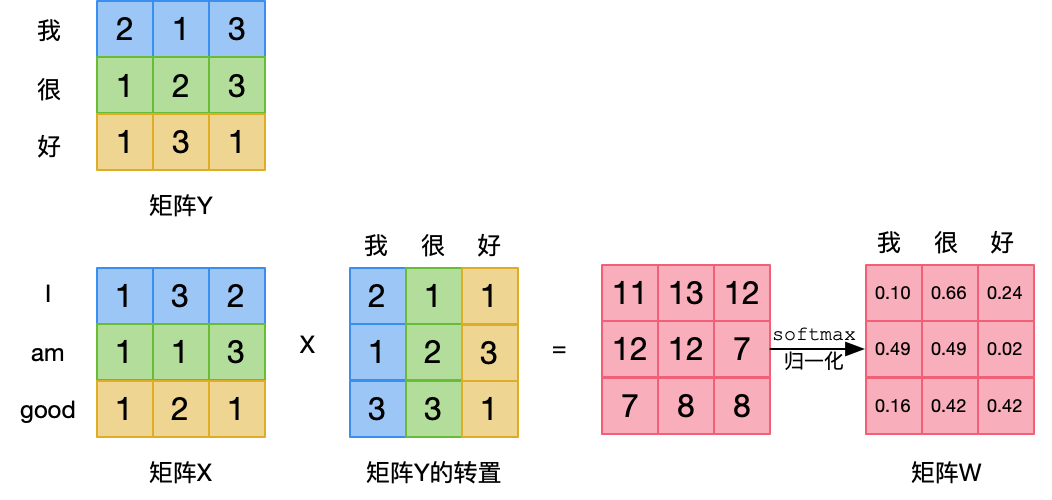
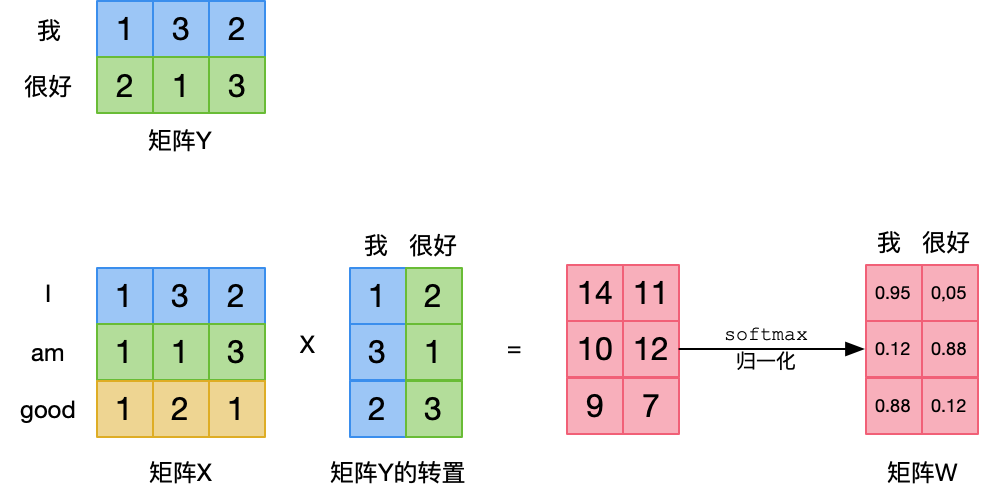
Update Post

diff --git a/source/_posts/What-exactly-is-attention.md b/source/_posts/What-exactly-is-attention.md
@@ -177,13 +177,13 @@ $$
 
 $$
 \begin{aligned}
-\mathbf{z_{I}}    &= 0.10 \cdot \mathbf{y_{\text{我}}} + 0.66 \cdot \mathbf{y_{\text{很}}} + 0.24 \cdot \mathbf{y_{\text{好}}} \\
-\mathbf{z_{am}}   &= 0.49 \cdot \mathbf{y_{\text{我}}} + 0.49 \cdot \mathbf{y_{\text{很}}} + 0.02 \cdot \mathbf{y_{\text{好}}} \\
-\mathbf{z_{good}} &= 0.16 \cdot \mathbf{y_{\text{我}}} + 0.42 \cdot \mathbf{y_{\text{很}}} + 0.42 \cdot \mathbf{y_{\text{好}}}
+\mathbf{z_{I}}    &= 0.95 \cdot \mathbf{y_{\text{我}}} + 0.05 \cdot \mathbf{y_{\text{很好}}} \\
+\mathbf{z_{am}}   &= 0.12 \cdot \mathbf{y_{\text{我}}} + 0.88 \cdot \mathbf{y_{\text{很好}}} \\
+\mathbf{z_{good}} &= 0.88 \cdot \mathbf{y_{\text{我}}} + 0.12 \cdot \mathbf{y_{\text{很好}}} 
 \end{aligned}
 $$
 
-如上的计算和权重只是为了说明原理而随机选择的数据，并不代表真实的相关性。因此，我们会看到 `I` 和 `很` 之间的关系最相似，实际上 `I` 和 `我` 之间最相似。
+如上的计算和权重只是为了说明原理而随机选择的数据，并不代表真实的相关性。因此，我们会看到 `good` 和 `我`（而不是 `很好`） 之间的关系最相似。
 
 ## Transformer 中的自注意力
 论文 [Attention Is All You Need](https://arxiv.org/html/1706.03762v7) 的 3.2 节对 Attention 的描述如下[^1]：
@@ -280,7 +280,7 @@ $$
 其中，$\mathbf{W}_0$ 是一个新的权重矩阵。
 
 ## Transformer 中的 Encoder
-在 `Multi-Head Attention` 的基础之上，再增加前馈网络、叠加和归一组件，就得到了完整的 Transformer Encoder。当然，实际中，可以将 $N$ 个 Encoder 一个一个的叠加起来，最后一个 Encoder 的输出就是原始输入内容的特征值 $\mathbf{R}$。
+在 `Multi-Head Attention` 的基础之上，再增加前馈网络、叠加和归一组件，就得到了完整的 Transformer Encoder。当然，实际中，可以将 $N$ 个 Encoder 一个一个的叠加起来，最后一个 Encoder 的输出就是原始输入内容的特征值 $\mathbf{R}$（矩阵 $\mathbf{R}$ 与输入内容的词向量矩阵的维度是一致的）。
 
 ![Encoder 架构图](encoder.png)
 
